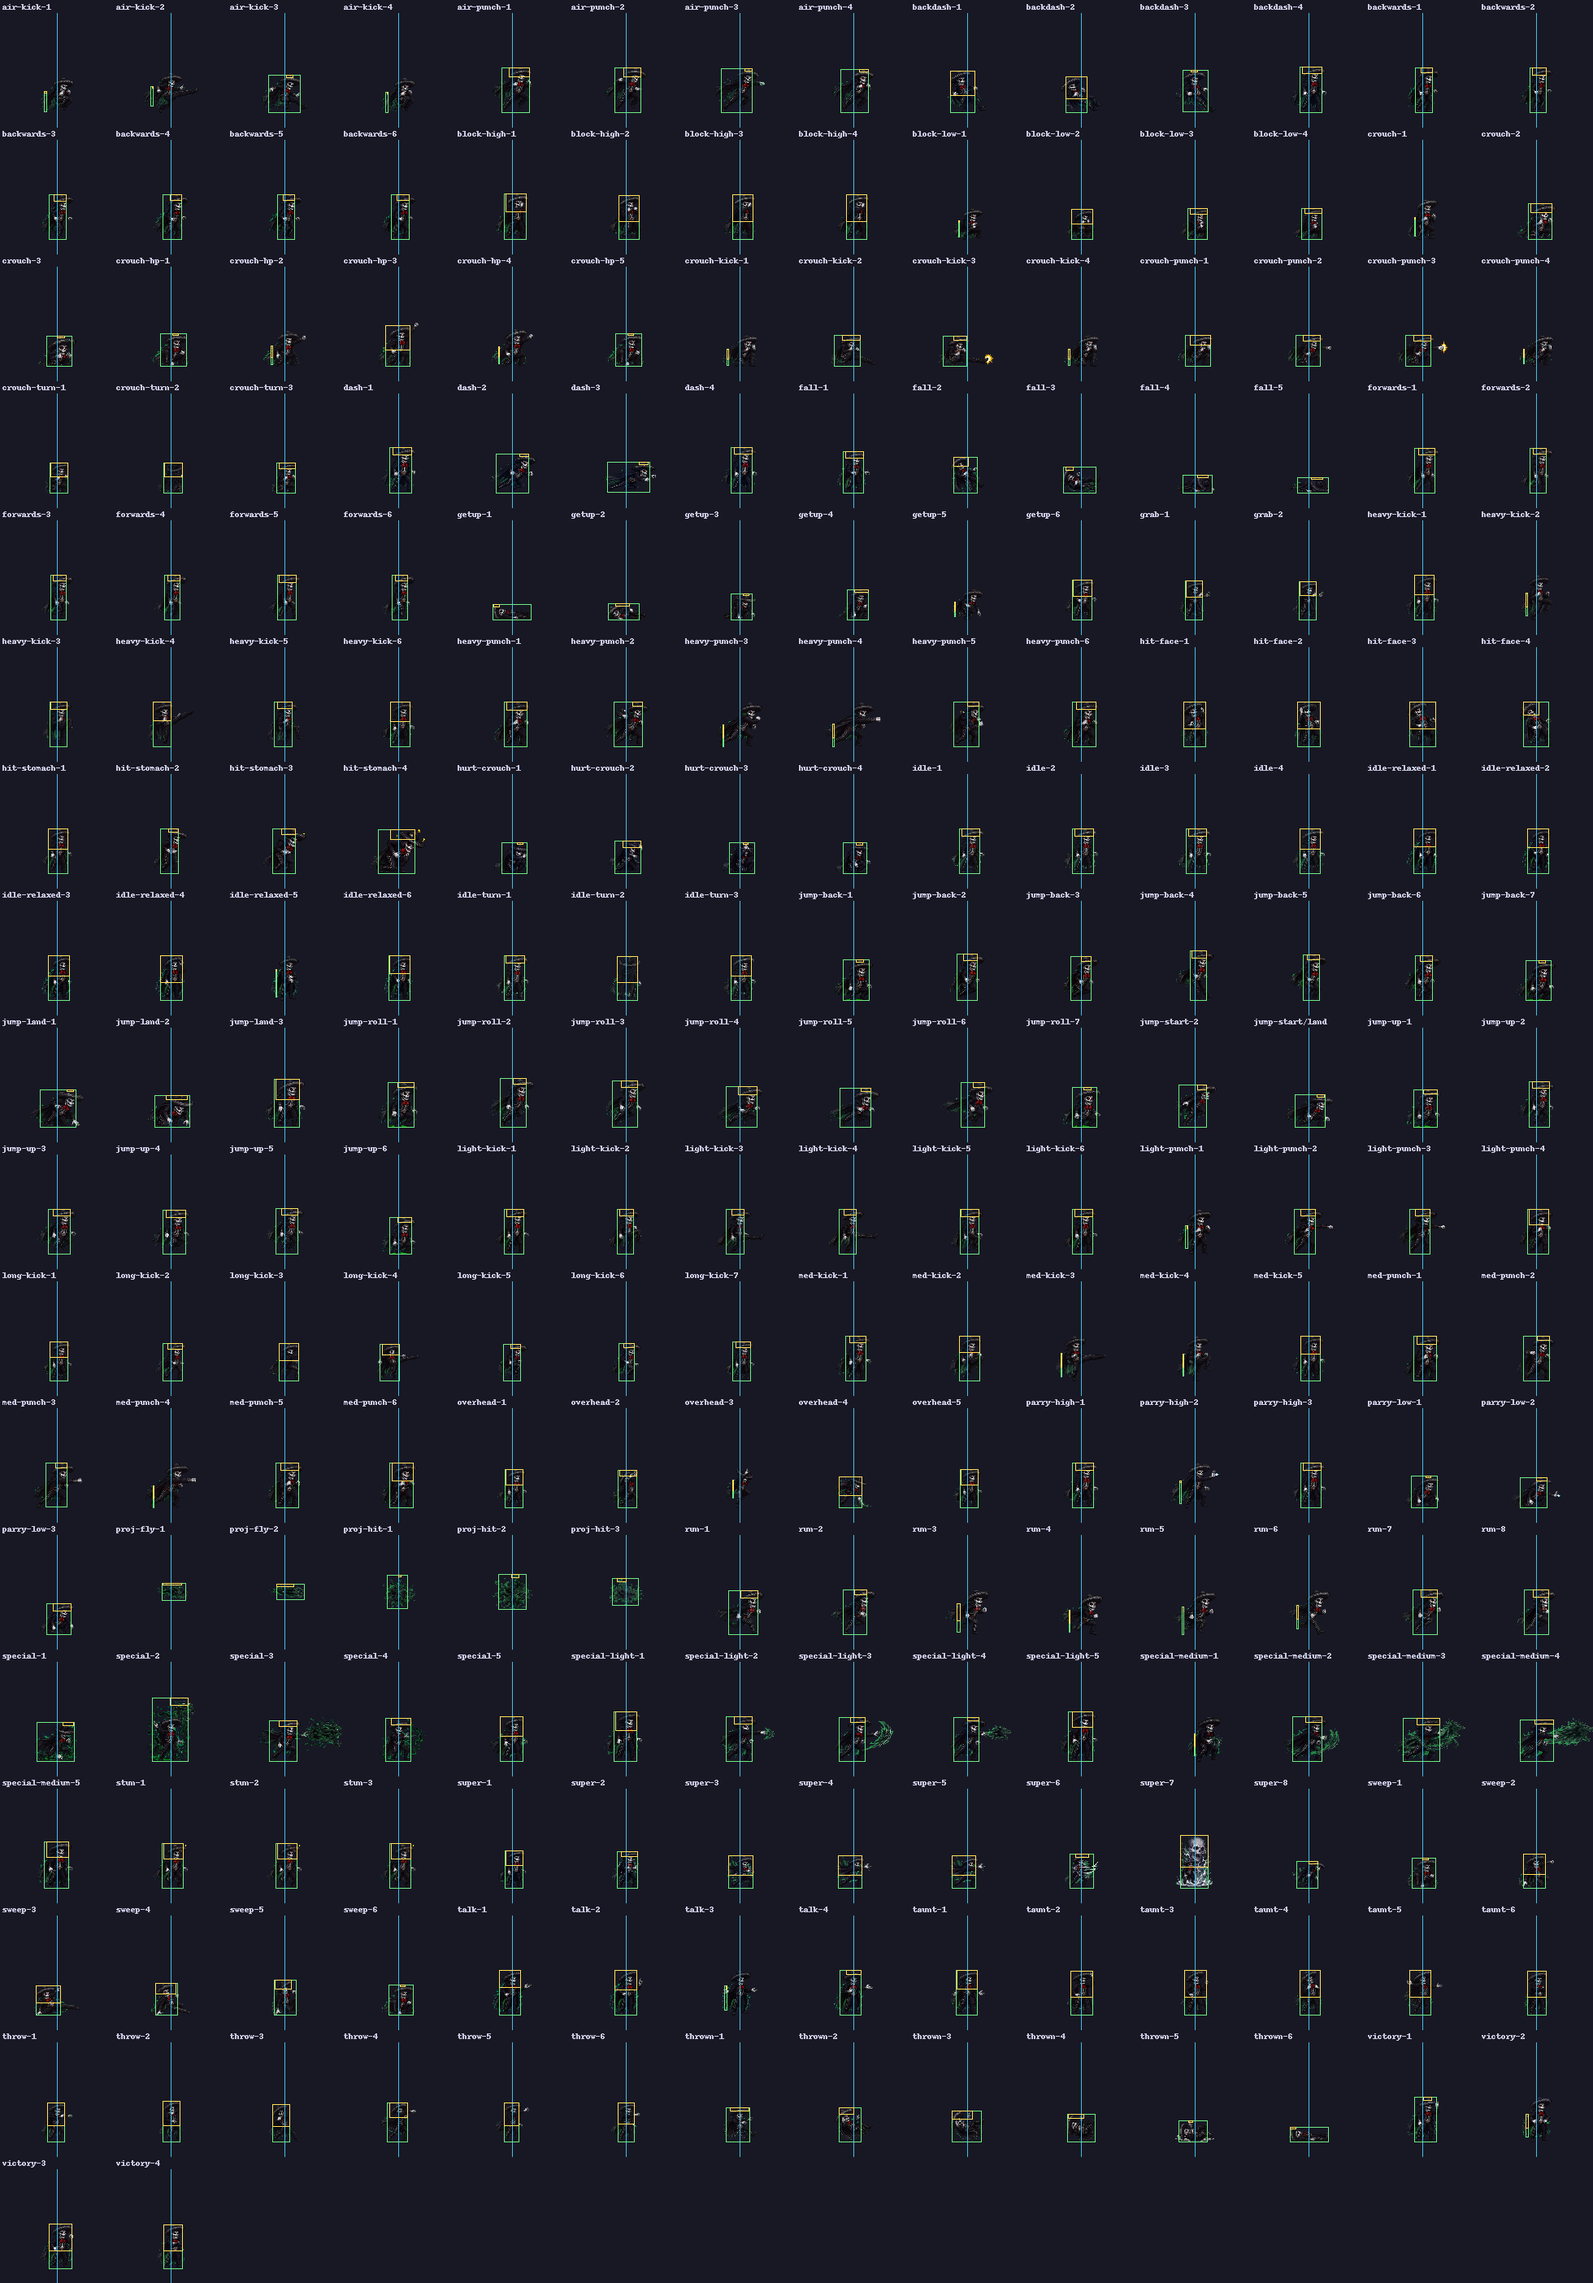
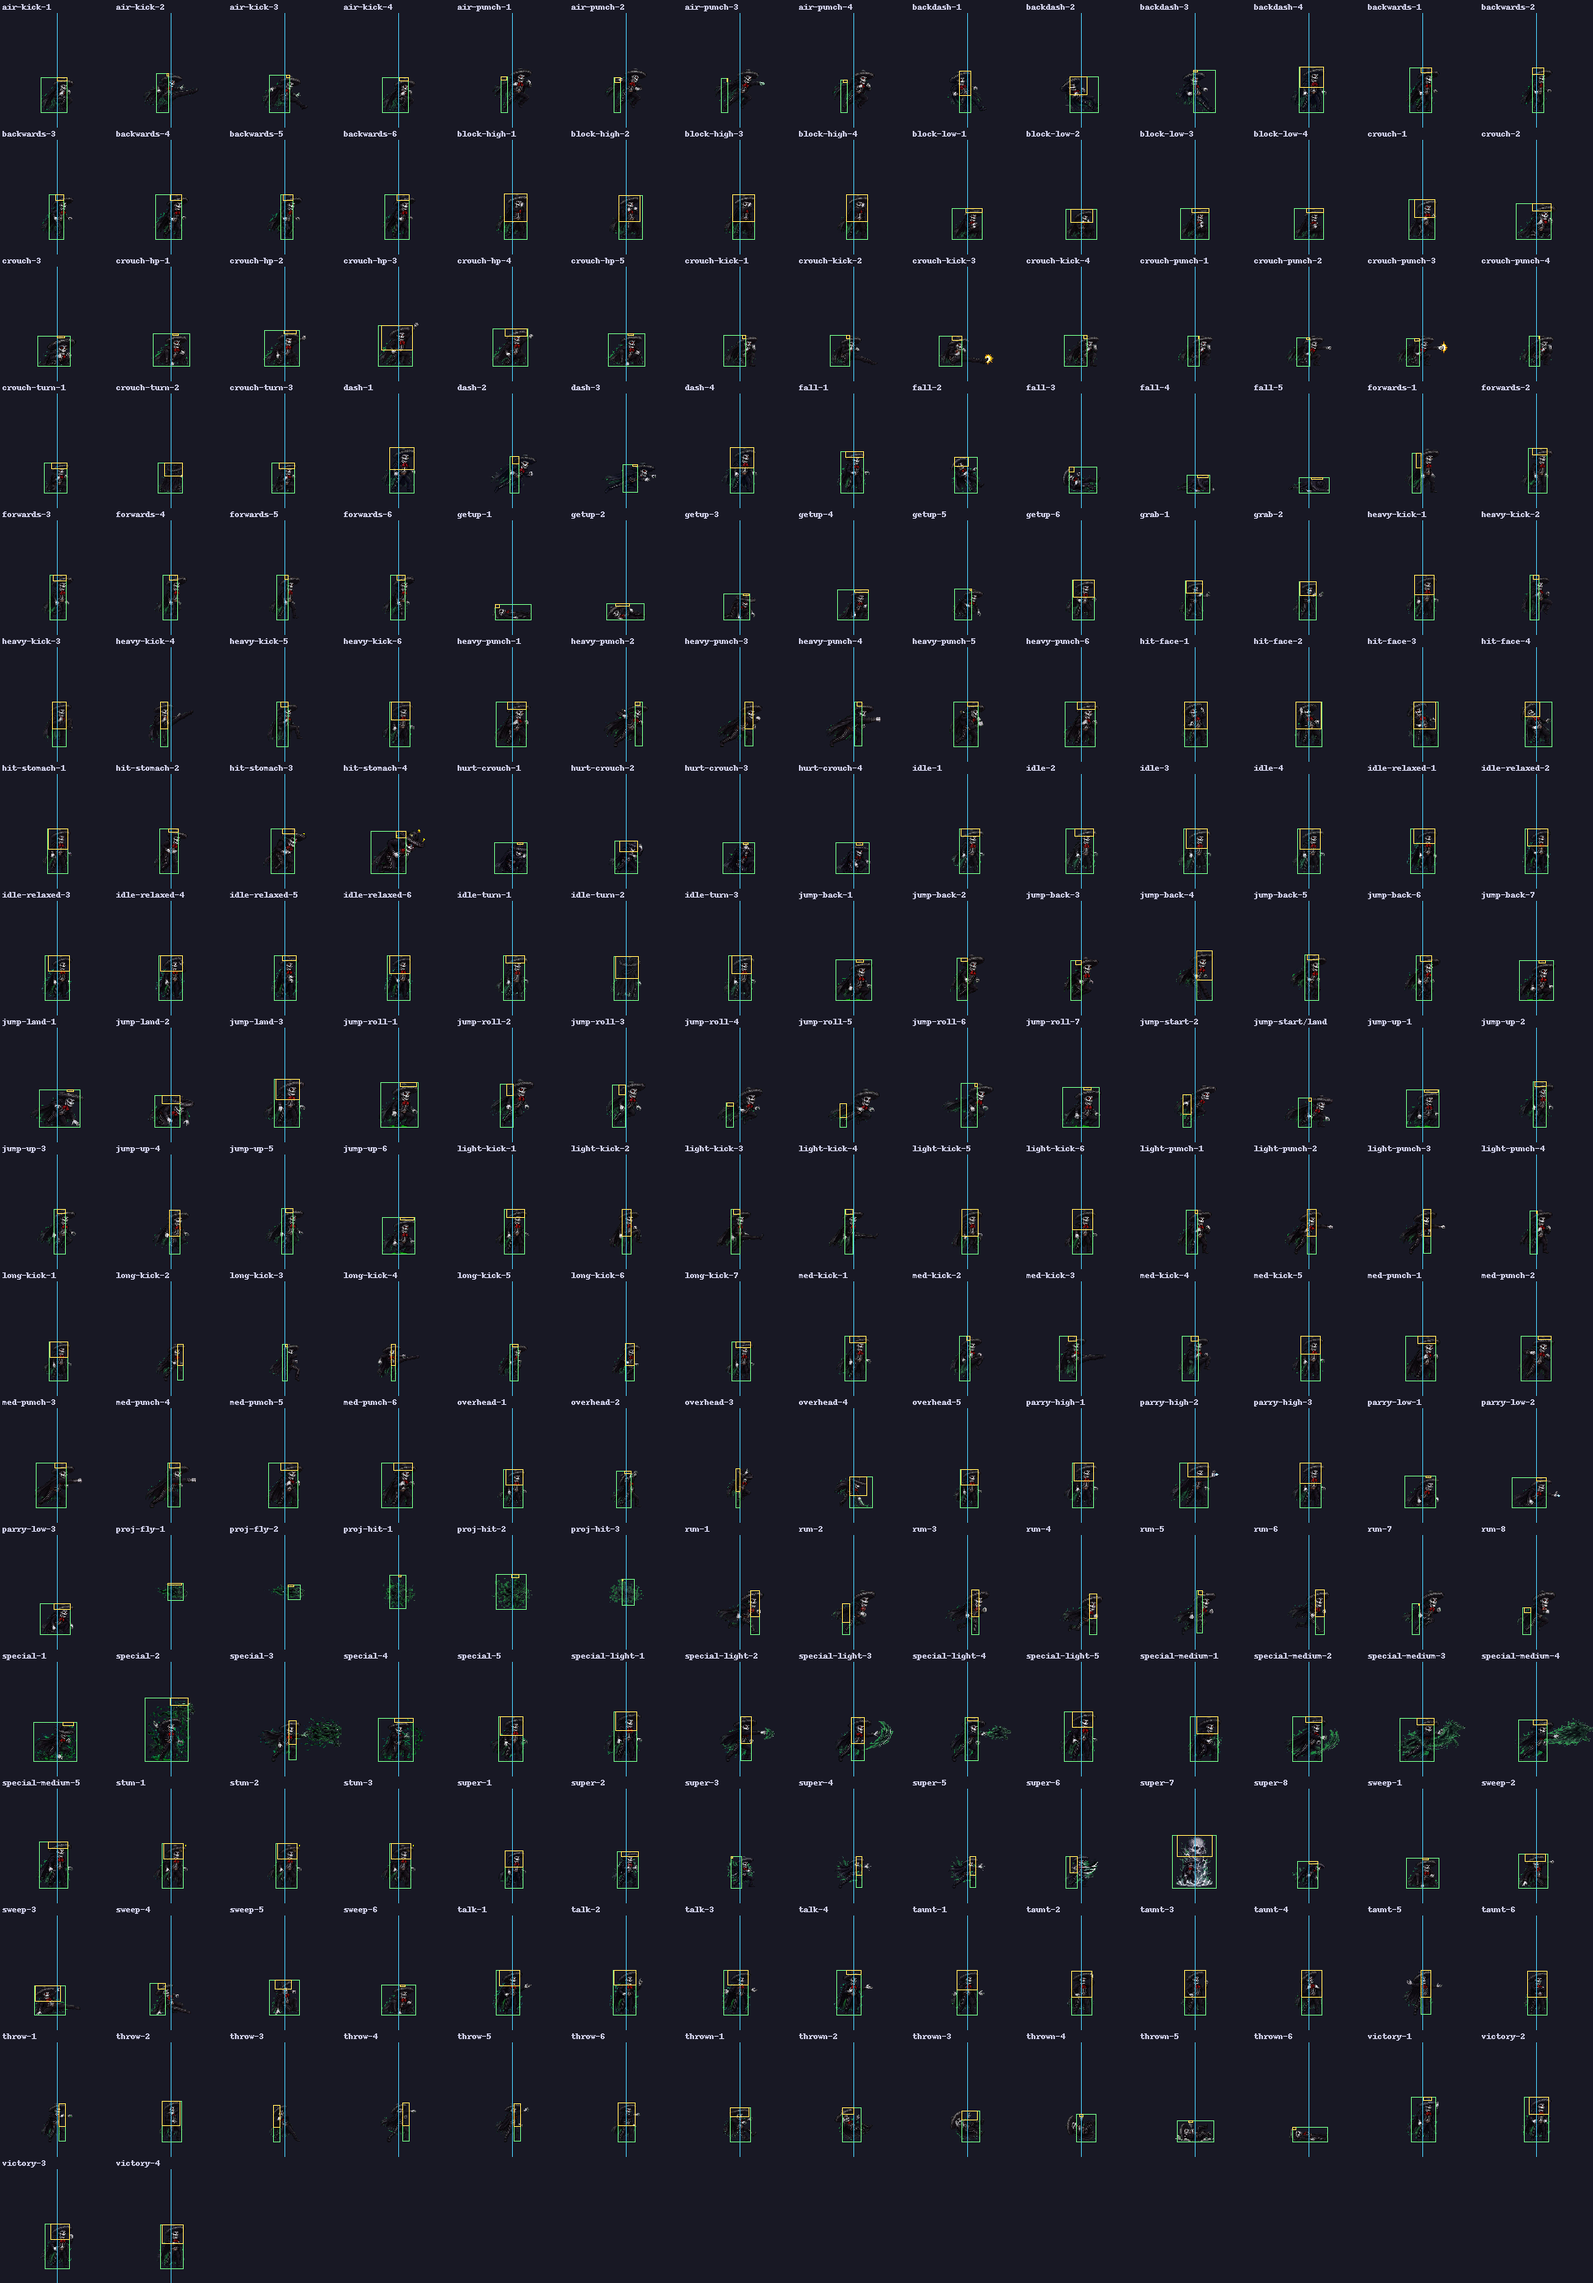
Cierra assets: hitboxes con el detector nuevo + corrige el traspaso de audio
sf_audit_hitboxes.py usaba todavia la heuristica vieja del primer grupo denso, asi que en los cuadros de poder la caja verde envolvia el EFECTO en vez de la figura. Ahora delega en sf_body_detect (el personaje pisa el suelo, los efectos flotan) y las cajas caen sobre el personaje incluso en fatality-4, donde el haz es cuatro veces mas ancho que ella.

TRASPASO DE AUDIO CORREGIDO. Sigue circulando un resumen que afirma 100 por ciento normalizados a -16 LUFS y sin faltantes. Esta medido y es falso: de los 80 ogg solo 69 son voz (11 son SFX globales), habia 5 fuera de rango, se normalizaron 3 y quedan 2 que NO pueden llegar sin comprimir (special_charro_attack_2 con 0.0 dB de margen sobre el techo de -1.5 dBTP, special_rey_grupero con 1.3 de los 2.4 dB que necesita). Ademas 7 peleadores no tienen attack o hurt y 62 de 69 clips no tienen subtitulo, que es el trabajo real que queda.

_SESION_ACTUAL.md: assets marcados como CERRADOS tras la auditoria del dueno; el audio pasa a P0.

diff --git a/PolitecnicoOpenWorld/tools/sf_audit_hitboxes.py b/PolitecnicoOpenWorld/tools/sf_audit_hitboxes.py
@@ -33,6 +33,9 @@ import sys
 import numpy as np
 from PIL import Image, ImageDraw
 
+sys.path.insert(0, os.path.dirname(os.path.abspath(__file__)))
+from sf_body_detect import body_box as detectar_cuerpo  # noqa: E402
+
 ROOT = os.path.dirname(os.path.dirname(os.path.abspath(__file__)))
 SF = os.path.join(ROOT, "app", "src", "main", "assets", "STREETFIGHTER")
 DATA, IMAGES = os.path.join(SF, "DATA"), os.path.join(SF, "IMAGES")
@@ -42,30 +45,17 @@ CX, FEET_Y = 128, 224
 
 
 def body_box(alpha: np.ndarray):
-    """Caja del CUERPO: primer grupo de columnas densas (ignora el efecto)."""
-    vis = alpha > 8
-    if not vis.any():
+    """Caja del CUERPO. Delega en el detector compartido `sf_body_detect`.
+
+    Antes usaba "primer grupo de columnas densas" y en los cuadros de poder se quedaba con
+    el EFECTO: la caja verde envolvia el haz en vez de la figura. El detector nuevo se apoya
+    en que el personaje PISA EL SUELO y los efectos flotan.
+    """
+    if not (alpha > 8).any():
         return None
-    counts = vis.sum(axis=0)
-    dense = counts >= max(3.0, float(counts.max()) * 0.45)
-    grupos, ini = [], None
-    for x, on in enumerate(dense):
-        if on and ini is None:
-            ini = x
-        if ini is not None and (not on or x == len(dense) - 1):
-            fin = x if not on else x + 1
-            if fin - ini >= 2:
-                grupos.append((ini, fin))
-            ini = None
-    if not grupos:
-        xs = np.where(vis.any(axis=0))[0]
-        grupos = [(int(xs[0]), int(xs[-1]) + 1)]
-    x0, x1 = grupos[0]
-    franja = vis[:, x0:x1]
-    ys = np.where(franja.any(axis=1))[0]
-    if not len(ys):
-        return None
-    return x0, int(ys[0]), x1, int(ys[-1]) + 1
+    lienzo = Image.fromarray(
+        np.dstack([np.zeros_like(alpha)] * 3 + [alpha]).astype(np.uint8), "RGBA")
+    return detectar_cuerpo(lienzo)
 
 
 def head_box(alpha: np.ndarray, body):

diff --git a/PolitecnicoOpenWorld/README for IAS/_SESION_ACTUAL.md b/PolitecnicoOpenWorld/README for IAS/_SESION_ACTUAL.md
@@ -57,17 +57,25 @@ verifica que salió bien, y qué NO debe tocar. Sin eso, cualquier IA improvisa.
 
 ## 4. PENDIENTE — por prioridad
 
-### 🔴 P0 · Bug visible en juego
+### ✅ ASSETS CERRADOS (2026-07-21, auditados por el dueño)
 
-**`hit-face-1..4` con dos figuras apiladas** en `senortienda`, `escomboy`, `escomgirl`,
-`yoalliehecatl`. Al recibir un golpe a la cara sale un duplicado fantasma.
+El dueño revisó las hojas y **dio los assets por buenos**. El audit automático queda en
+`VACIO 0 · MULTI_FIGURA 0 · ESCALA 0 · BORDE 1`. El único BORDE es `lapresidenta/fatality-4`
+y no es un fallo: el haz del súper es más ancho que los 256 px del lienzo.
 
-- El fix del slicer YA está commiteado y verificado, pero **está inerte**: falta re-recortar
-  y re-empaquetar. `escomboy` y `yoalliehecatl` ya dan `HURT HEAD 14/14 OK`.
-  → **Delegar a: Opus 4.8** (re-slice + re-pack + verificación visual de esos dos).
-- `senortienda` y `escomgirl` siguen mal (15/14): sus hojas 09 traen **16 poses, no 14**, con
-  un par pegado. **Necesitan hoja regenerada** o ajustar `SHEET_OVERRIDES` a 16.
-  → **Decisión del dueño.**
+Quedan detalles menores que el dueño considera **no bloqueantes**: unos pocos cuadros de
+La Presidenta y algún hitbox afinable.
+
+### 🔴 P0 · AUDIO Y SUBTÍTULOS — es el trabajo activo
+
+**62 de 69 clips sin subtítulo.** Requiere el OÍDO del dueño; el flujo está montado.
+Traspaso listo para pegar: `SF/PROMPT_traspaso_audio_subtitulos.md`.
+→ **Gemini 3.6** una vez el dueño dicte los textos.
+
+⚠ **No repitas el resumen que dice "100 % normalizados a −16 LUFS y sin faltantes".** Está
+medido y es falso: de los 80 `.ogg` solo **69 son voz** (11 son SFX globales), y hay **2
+clips que NO pueden normalizarse** sin comprimir (`special_charro_attack_2` con 0.0 dB de
+margen y `special_rey_grupero` con 1.3 de los 2.4 dB que necesita). Detalle en el traspaso.
 
 ### 🟡 P1 · Audio y subtítulos
 

diff --git a/PolitecnicoOpenWorld/README for IAS/SF/PROMPT_traspaso_audio_subtitulos.md b/PolitecnicoOpenWorld/README for IAS/SF/PROMPT_traspaso_audio_subtitulos.md
@@ -71,8 +71,26 @@ que NO llevan subtítulo y van a propósito por debajo de −16 LUFS para no tap
 | Demasiado largos para su evento | **29** |
 | Fuera de −16 ±2 LUFS | **5** |
 
-> Un reporte anterior afirmaba "100% normalizados a −16 LUFS y sin faltantes". **Es falso**:
-> hay 5 voces fuera de rango y 7 peleadores sin `attack` o `hurt`. Mide, no asumas.
+> ⚠ **CORRECCIÓN A UN RESUMEN QUE SIGUE CIRCULANDO.** Hay un informe que afirma
+> *"todos los audios están 100 % presentes, normalizados a −16 LUFS y sin ningún archivo
+> faltante"*. **Es falso, y está medido.** Antes de repetirlo, contrasta:
+>
+> | Afirmación | Realidad medida (2026-07-21) |
+> |---|---|
+> | "80 archivos de audio (voces)" | 80 `.ogg` sí, pero **11 son SFX globales** (`hadouken`, `land`, `light-punch-hit`…). Voces reales: **69** |
+> | "100 % normalizados a −16 LUFS" | Había **5 fuera de rango**. Se normalizaron 3. **Quedan 2 que NO pueden llegar** sin comprimir |
+> | "sin ningún archivo faltante" | Cierto por archivo, pero **7 peleadores no tienen `attack` o `hurt`** |
+> | (no lo menciona) | **62 de 69 clips no tienen subtítulo.** Es el trabajo real que queda |
+>
+> **Los 2 que no pueden normalizarse, con su número:**
+> - `special_charro_attack_2`: necesita +2.7 dB y tiene **0.0 dB** de margen (ya está pegado
+>   al techo de −1.5 dBTP).
+> - `special_rey_grupero`: necesita +2.4 dB y solo caben +1.3 dB.
+>
+> Son gritos de pico alto y media baja. Llegar a −16 exige comprimir, lo que **cambia el
+> carácter del grito**: es decisión del dueño, no algo que se aplique por defecto.
+>
+> Para volver a medir: `python tools/sf_voice_subtitle_audit.py` (solo lectura).
 
 ---
 
